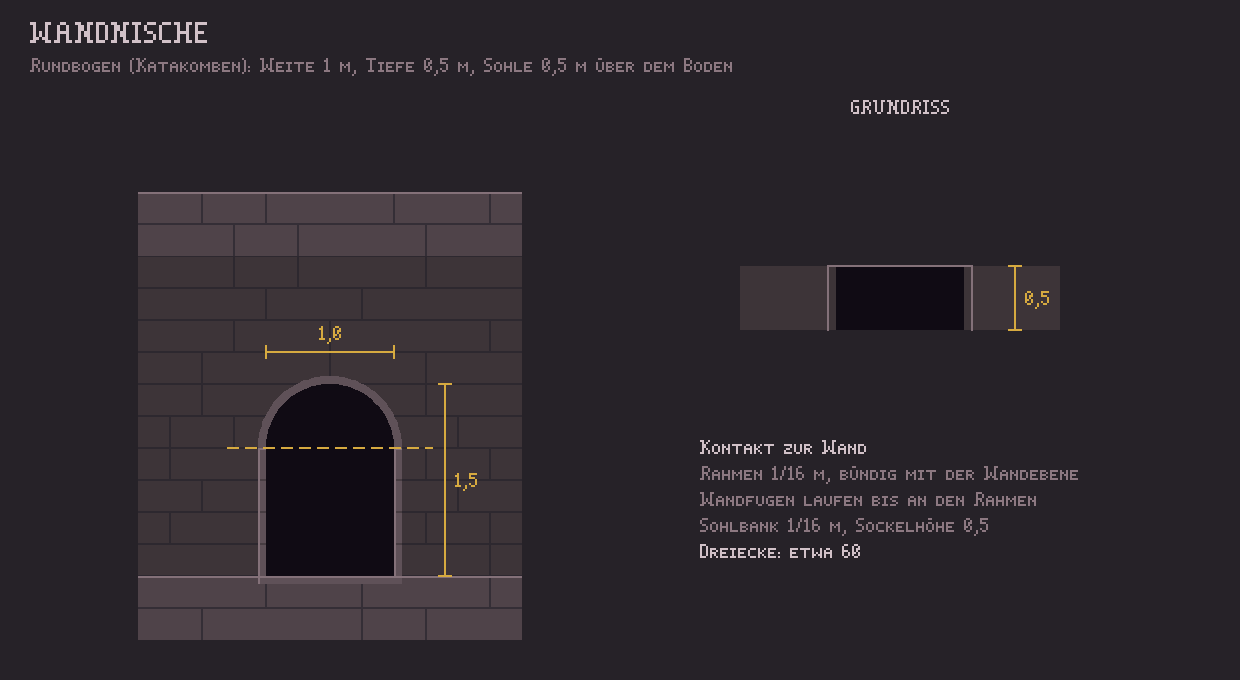
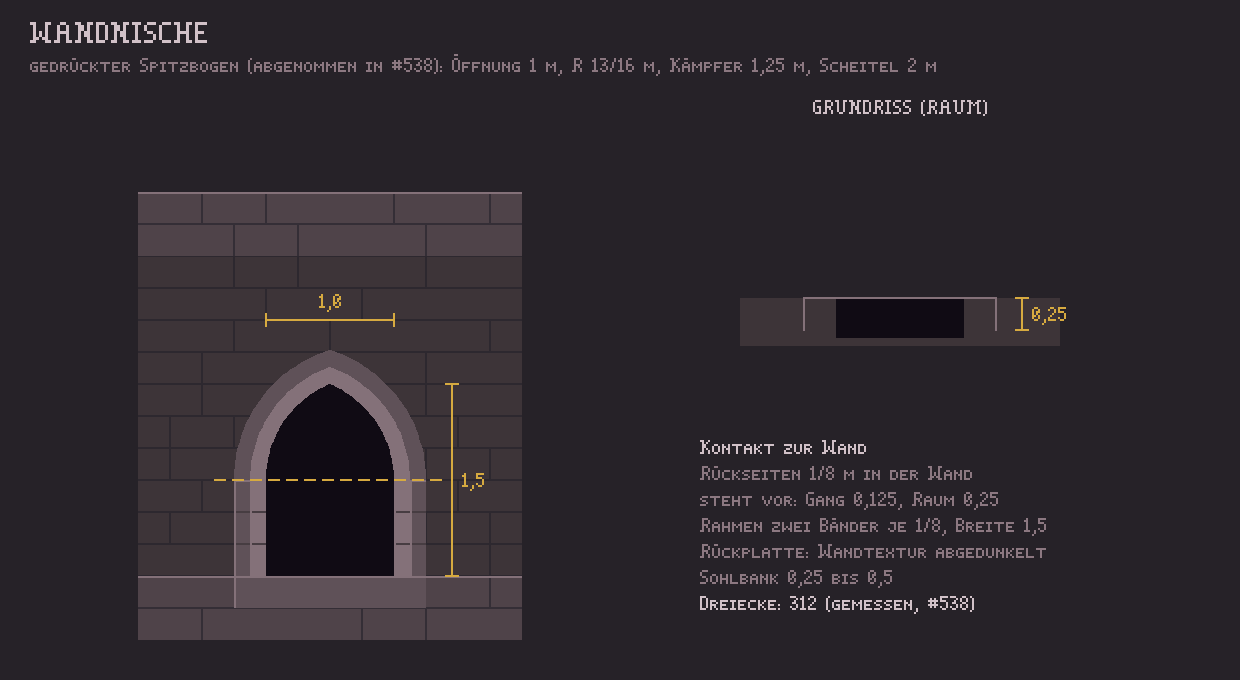
docs: Formenlehre, Musterraum, CHANGELOG und HERKUNFT zur Wandnische (#538)
Die Formenlehre beschreibt die Nische jetzt als gedrueckten Spitzbogen,
wie in #538 abgenommen (Masse, 312 Dreiecke gemessen, Kontakt zur Wand);
die Skizze nische.png ist neu gezeichnet.

diff --git a/tools/design/formenlehre_gotik.py b/tools/design/formenlehre_gotik.py
@@ -522,27 +522,30 @@ def deckenbogen():
 
 
 def nische():
-    c = panel("WANDNISCHE", "Rundbogen (Katakomben): Weite 1 m, Tiefe 0,5 m, Sohle 0,5 m über dem Boden")
+    c = panel("WANDNISCHE", "gedrückter Spitzbogen (abgenommen in #538): Öffnung 1 m, R 13/16 m, Kämpfer 1,25 m, Scheitel 2 m")
     t = T(330, 640)
     wall_zoned(c, t, -1.5, 1.5)
-    outer = full_arc(0.5, 0.5, 1.5)
-    c.poly([t.p((-0.5, 0.5))] + [t.p(p) for p in outer[1:-1]] + [t.p((0.5, 0.5))], OEFFNUNG)
-    o2, i2 = arch_ring(0.5625, 0.5625, 0.0625, 1.5)
-    fill_ring(c, t, o2, i2, BAU)
-    stone_block(c, t, -0.5625, -0.5, 0.5, 1.5)
-    stone_block(c, t, 0.5, 0.5625, 0.5, 1.5)
-    stone_block(c, t, -0.5625, 0.5625, 0.4375, 0.5)
-    dim_h(c, t, -0.5, 0.5, 2.25, "1,0")
-    dim_v(c, t, 0.9, 0.5, 2.0, "1,5", right=True)
-    c.dashed(t.x(-0.8), t.y(1.5), t.x(0.8), t.y(1.5), MASS, 2, 10, 8)
+    R, spring = 0.8125, 1.25
+    opening = full_arc(0.5, R, spring)
+    c.poly([t.p((-0.5, 0.5))] + [t.p(p) for p in opening] + [t.p((0.5, 0.5))], OEFFNUNG)
+    for hw, fill in ((0.75, BAU), (0.625, BAU_HELL)):
+        o, i = arch_ring(hw, R + hw - 0.5, 0.125, spring)
+        fill_ring(c, t, o, i, fill)
+        stone_block(c, t, -hw, -hw + 0.125, 0.5, spring, fill=fill)
+        stone_block(c, t, hw - 0.125, hw, 0.5, spring, fill=fill)
+    stone_block(c, t, -0.75, 0.75, 0.25, 0.5)
+    dim_h(c, t, -0.5, 0.5, 2.5, "1,0")
+    dim_v(c, t, 0.95, 0.5, 2.0, "1,5", right=True)
+    c.dashed(t.x(-0.9), t.y(spring), t.x(0.9), t.y(spring), MASS, 2, 10, 8)
     tp = T(900, 330)
-    c.rect(tp.x(-1.25), tp.y(0.5), tp.x(1.25), tp.y(0), WAND)
-    c.rect(tp.x(-0.5), tp.y(0.5), tp.x(0.5), tp.y(0), OEFFNUNG)
-    c.path([tp.p((-0.5625, 0)), tp.p((-0.5625, 0.5)), tp.p((0.5625, 0.5)), tp.p((0.5625, 0))], BAU_HELL, 2)
-    c.text(tp.x(0), 100, "GRUNDRISS", TITEL, 2, "m")
-    dim_v(c, tp, 0.9, 0, 0.5, "0,5", right=True)
-    notes(c, 700, 440, ["#Kontakt zur Wand", "Rahmen 1/16 m, bündig mit der Wandebene", "Wandfugen laufen bis an den Rahmen",
-                        "Sohlbank 1/16 m, Sockelhöhe 0,5", "#Dreiecke: etwa 60"], 26)
+    c.rect(tp.x(-1.25), tp.y(0.25), tp.x(1.25), tp.y(-0.125), WAND)
+    c.rect(tp.x(-0.5), tp.y(0.25), tp.x(0.5), tp.y(-0.0625), OEFFNUNG)
+    c.path([tp.p((-0.75, 0)), tp.p((-0.75, 0.25)), tp.p((0.75, 0.25)), tp.p((0.75, 0))], BAU_HELL, 2)
+    c.text(tp.x(0), 100, "GRUNDRISS (RAUM)", TITEL, 2, "m")
+    dim_v(c, tp, 0.95, 0, 0.25, "0,25", right=True)
+    notes(c, 700, 440, ["#Kontakt zur Wand", "Rückseiten 1/8 m in der Wand", "steht vor: Gang 0,125, Raum 0,25",
+                        "Rahmen zwei Bänder je 1/8, Breite 1,5", "Rückplatte: Wandtextur abgedunkelt",
+                        "Sohlbank 0,25 bis 0,5", "#Dreiecke: 312 (gemessen, #538)"], 26)
     return c
 
 

diff --git a/docs/musterraum.md b/docs/musterraum.md
@@ -30,7 +30,8 @@ Der Rundgang ist eine Schleife aus **drei Abschnitten**, einer je Wandvariante *
 - **Einmal**, verteilt auf die drei Raum-Teile, mit mindestens 6 m Abstand: die vier Kisten (offen zu öffnen), die Wendeltreppe (steht, ist aber kein Ausgang), Ghul, Fledermaus und Gorm, das Armbrust-Skelett in Ruhe und beim Ankündigen (nur als Figur, ohne Körper und ohne Schuss; Issue #497), die Waffen und vier Gegenstände (je einer jeder Stufe) in ihrer Stufenfarbe, Silber, Blutphiole und Weihmunition.
 - **Wandpfeiler** (Issue #536) stehen vor der Nordwand jedes Teils, in dessen Wandvariante und Höhe: im Gang ein flacher Pfeiler (3,5 m) zwischen je zwei Türen, im Raum ein tieferer (6 m) alle 8 m. Sie stehen in der Mitte einer Zellenwand, so dass ihre Fugen mit der Wand weiterlaufen. Reiner Schmuck: keine Kollision, kein Einfluss auf Schritte und Schüsse. Die Zuordnung Wandvariante + Deckenhöhe → Modell steht in `WallPillarLook`; in echten Räumen stehen noch keine (Issue #284).
 - **Deckenbögen** (Issue #537): Jeder Abschnitt hat südlich des Gangteils einen Stichgang, eine Zelle (2 m) breit und 3,5 m hoch, der im Westen blind endet und in die Südwest-Ecke des Raumteils mündet. Darin spannen drei Gurtbögen im Abstand von 4 m quer über den Gang, jeder auf zwei tragenden Wandpfeilern, in der Wandvariante des Abschnitts. Reiner Schmuck wie die Pfeiler: Ein Test läuft Tick für Tick durch den Stichgang (Mitte und dicht an beiden Wänden) und zeigt, dass der Weg mit und ohne Bögen gleich ist. Wo ein Bogen stehen darf (nur quer über einen 2 m breiten Gang unter 3,5 m Decke) und welches Modell er trägt, steht in `CeilingArchLook`; in echten Gängen stehen noch keine (Issue #284).
-- Über jedem Stück steht sein englischer Name, an jedem Teil „Wall A - corridor 3.5 m“ usw., über dem ersten Pfeiler eines Teils „Pillar 3.5 m“ bzw. „Pillar 6 m“, an der Mündung jedes Stichgangs „Ceiling arch“. Schilder hinter Wänden, weiter als 16 m entfernt oder nicht ganz im Bild werden nicht gezeichnet.
+- **Wandnischen** (Issue #538) sitzen an der Südwand jedes Teils, in dessen Wandvariante: im Gang die flache (3,5 m, steht 1/8 m vor), im Raum die tiefere (6 m, 1/4 m). Sie sitzen in denselben Spalten wie die Raumpfeiler, alle 4 m und mit einer Zelle glatter Wand an beiden Enden, also gegenüber von Türen und Pfeilern der Nordwand. Wo eine Nische sitzen darf, prüft `WallNicheLook.Place`: offene Zelle mit einer lichten Höhe (Decke minus Boden), für die es eine Größe gibt; Wand dahinter; beide Nachbarn entlang der Wand offen, auf gleicher Bodenhöhe und mit Wand dahinter (der Rahmen reicht 1/4 m in sie hinein). Reiner Schmuck: Ein Test läuft Tick für Tick auf jede Nische zu und kommt bis an die Wand. In echten Räumen sitzen noch keine (Issue #284).
+- Über jedem Stück steht sein englischer Name, an jedem Teil „Wall A - corridor 3.5 m“ usw., über dem ersten Pfeiler eines Teils „Pillar 3.5 m“ bzw. „Pillar 6 m“, vor der ersten Nische eines Teils „Niche 3.5 m“ bzw. „Niche 6 m“, an der Mündung jedes Stichgangs „Ceiling arch“. Schilder hinter Wänden, weiter als 16 m entfernt oder nicht ganz im Bild werden nicht gezeichnet.
 
 **Gegner sind Ausstellungsstücke:** Sie bewegen sich nicht, greifen nicht an und nehmen keinen Schaden. Es gibt keine Arenen, keine Siegel, keinen Bosskampf und keinen Ebenenwechsel. Silber, Schlüssel, Phiole und Munition nimmst du wie im Spiel beim Darüberlaufen auf – dann fehlen sie bis zum nächsten Start.
 
@@ -60,7 +61,7 @@ Je Teil gibt es eine Foto-Szene mit genau diesem Aufbau (siehe [foto-skript.md](
 dotnet run --project src/SilverAndAsh.Game -- --photo showroom-a-corridor --out fotos
 ```
 
-Szenen: `showroom-a-corridor`, `showroom-a-room`, `showroom-b-corridor`, `showroom-b-room`, `showroom-c-corridor`, `showroom-c-room`. Der Blick geht vom Westende des südlichen Laufwegs schräg auf die Nordwand; weit entfernte Stücke liegen – wie im Spiel – im Dunkeln. Das Armbrust-Skelett hat eigene Szenen von vorn: `crossbow-skeleton-rest-4m`, `crossbow-skeleton-announce-4m` und `crossbow-skeleton-announce-2m`. Die Wandpfeiler zeigen `wall-pillar-a-corridor` bis `wall-pillar-c-room` (je Wandvariante und Höhe), die Deckenbögen `ceiling-arch-a` bis `ceiling-arch-c` (je Wandvariante, von der Mündung auf den nächsten Bogen) und `ceiling-arch-sequence` (die Folge der drei Bögen in Variante A). Für ein bestimmtes Stück aus der Nähe baut `ShowroomLayout.NewWorldAt(x, z, blickziel)` eine Welt mit dem Spieler an einer Zelle.
+Szenen: `showroom-a-corridor`, `showroom-a-room`, `showroom-b-corridor`, `showroom-b-room`, `showroom-c-corridor`, `showroom-c-room`. Der Blick geht vom Westende des südlichen Laufwegs schräg auf die Nordwand; weit entfernte Stücke liegen – wie im Spiel – im Dunkeln. Das Armbrust-Skelett hat eigene Szenen von vorn: `crossbow-skeleton-rest-4m`, `crossbow-skeleton-announce-4m` und `crossbow-skeleton-announce-2m`. Die Wandpfeiler zeigen `wall-pillar-a-corridor` bis `wall-pillar-c-room` (je Wandvariante und Höhe), die Deckenbögen `ceiling-arch-a` bis `ceiling-arch-c` (je Wandvariante, von der Mündung auf den nächsten Bogen) und `ceiling-arch-sequence` (die Folge der drei Bögen in Variante A), die Wandnischen `wall-niche-a-corridor` bis `wall-niche-c-room` (je Wandvariante und Größe, aus 3 m vor der zweiten Nische des Teils). Für ein bestimmtes Stück aus der Nähe baut `ShowroomLayout.NewWorldAt(x, z, blickziel)` eine Welt mit dem Spieler an einer Zelle.
 
 ## Wie es funktioniert
 

diff --git a/assets/HERKUNFT.md b/assets/HERKUNFT.md
@@ -16,6 +16,7 @@ Alles unter `assets/` ist per Skript erzeugt, nichts heruntergeladen (`CLAUDE.md
 | `models/stairs_spiral_a.glb`, `models/stairs_spiral_a.png`, `models/stairs_spiral_b.glb`, `models/stairs_spiral_b.png`, `models/stairs_spiral_c.glb`, `models/stairs_spiral_c.png` | `tools/models/stairs.py` (mit `tools/models/psx.py`; liest `textures/catacomb_wall*.png`, `textures/catacomb_floor*.png` und `palette/hauptpalette.json`) | 2026-11-17 |
 | `models/wall_pillar_corridor_a.glb`, `models/wall_pillar_corridor_a.png`, `models/wall_pillar_corridor_b.glb`, `models/wall_pillar_corridor_b.png`, `models/wall_pillar_corridor_c.glb`, `models/wall_pillar_corridor_c.png`, `models/wall_pillar_room_a.glb`, `models/wall_pillar_room_a.png`, `models/wall_pillar_room_b.glb`, `models/wall_pillar_room_b.png`, `models/wall_pillar_room_c.glb`, `models/wall_pillar_room_c.png` | `tools/models/wall_pillar.py` (mit `tools/models/psx.py`; liest `textures/catacomb_wall*.png` und `palette/hauptpalette.json`; Übergabe aus `design/proben/grafik/wandpfeiler-536/wandpfeiler.py`, Fassungen Gang und Raum, Issue #536; neu erzeugt mit Hebung um 2 Stein-Stufen statt 5, damit die Fugen auf den umgerechneten Wänden sichtbar bleiben) | 2026-11-20 |
 | `models/ceiling_arch_a.glb`, `models/ceiling_arch_a.png`, `models/ceiling_arch_b.glb`, `models/ceiling_arch_b.png`, `models/ceiling_arch_c.glb`, `models/ceiling_arch_c.png` | `tools/models/ceiling_arch.py` (mit `tools/models/pillar_kit.py`, das Profil, Texturen und Welt-UV mit `tools/models/wall_pillar.py` teilt, und `tools/models/psx.py`; liest `textures/catacomb_wall*.png` und `palette/hauptpalette.json`; Übergabe aus dem Probestück `deckenbogen.py` auf dem Branch `feat/deckenbogen-probe-537` (Stand `774ce69`), Bogen mit tragenden Pfeilern „gang_traeger“, Issue #537; Prüfung `tools/models/check_closed.py`; zwei Läufe bitgleich) | 2026-11-21 |
+| `models/wall_niche_corridor_a.glb`, `models/wall_niche_corridor_a.png`, `models/wall_niche_corridor_b.glb`, `models/wall_niche_corridor_b.png`, `models/wall_niche_corridor_c.glb`, `models/wall_niche_corridor_c.png`, `models/wall_niche_room_a.glb`, `models/wall_niche_room_a.png`, `models/wall_niche_room_b.glb`, `models/wall_niche_room_b.png`, `models/wall_niche_room_c.glb`, `models/wall_niche_room_c.png` | `tools/models/wall_niche.py` (mit `tools/models/pillar_kit.py` und `tools/models/psx.py`; liest `textures/catacomb_wall*.png` und `palette/hauptpalette.json`; Übergabe aus dem Probestück `wandnische.py` auf dem Branch `feat/wandnische-probe-538` (Stand `07cac5c`), Form „spitz“ in den Größen Gang und Raum, Issue #538; Form, Maße und Hebung der Steine (5 Stufen) unverändert übernommen, Geometrie und Atlanten bitgleich mit den Modellen des Probestücks; Prüfung im Skript per `assert`: geschlossen, nur Farben der Reihe Stein, Vorsprung; zwei Läufe bitgleich) | 2026-11-21 |
 | `models/well_of_sirius_bereit.glb`, `models/well_of_sirius_verbraucht.glb`, `models/well_of_sirius.png` | `tools/models/well_of_sirius.py` (mit `tools/models/psx.py`; liest `palette/hauptpalette.json`; Übergabe aus `design/proben/grafik/brunnen-438/brunnen3.py`, Issue #438; Prüfung `tools/models/check_closed.py`) | 2026-11-19 |
 | `models/crossbow_skeleton_rest.glb`, `models/crossbow_skeleton_rest.png`, `models/crossbow_skeleton_announce.glb`, `models/crossbow_skeleton_announce.png` | `tools/models/crossbow_skeleton.py` (mit `tools/models/psx.py`; liest `palette/hauptpalette.json`; Übergabe der abgenommenen Probe „F flach“ aus Issue #334, Runde 4, Issue #497; Prüfung `tools/models/check_closed.py`) | 2026-11-20 |
 | `models/crypt_warden_rest.glb`, `models/crypt_warden_rest.png`, `models/crypt_warden_announce.glb`, `models/crypt_warden_announce.png` | `tools/models/crypt_warden.py` (mit `tools/models/psx.py`; liest `palette/hauptpalette.json`; Übergabe der abgenommenen Probe „K1“ aus Issue #335, Runde 7, Issue #530; Prüfung `tools/models/check_closed.py`) | 2026-11-20 |
@@ -56,6 +57,7 @@ Modelle mit Blender 5.3 ohne Oberfläche; das Skript schreibt nach `assets/model
 "D:\Program Files\Blender Foundation\Blender 5.3\blender.exe" --background --python tools/models/crypt_warden.py
 "D:\Program Files\Blender Foundation\Blender 5.3\blender.exe" --background --python tools/models/wall_pillar.py
 "D:\Program Files\Blender Foundation\Blender 5.3\blender.exe" --background --python tools/models/ceiling_arch.py
+"D:\Program Files\Blender Foundation\Blender 5.3\blender.exe" --background --python tools/models/wall_niche.py
 ```
 
 Level-Texturen ebenso; das Skript schreibt nach `assets/textures/`:

diff --git a/CHANGELOG.md b/CHANGELOG.md
@@ -7,6 +7,7 @@ Neue Einträge kommen zuerst unter **Unveröffentlicht**. Beim Release wird dara
 ## [Unveröffentlicht]
 
 ### Hinzugefügt
+- **Wandnische im Musterraum:** An der Südwand jedes Abschnitts sitzen flache Wandnischen mit gedrücktem Spitzbogen, in jeder Wandvariante A, B und C: im Gang (3,5 m) eine flache, die 1/8 m vorsteht, im Raum (6 m) eine tiefere mit 1/4 m. Gewände und Sohlbank tragen den Stein ihrer Wand, etwas heller; in der Öffnung liegt eine dunkle Platte, deren Steine mit denen der Wand weiterlaufen. Eine Nische sitzt nur mitten an einer glatten Wand, nie an einer Ecke, Öffnung oder Stufe. Die Nischen sind reiner Schmuck: Man läuft bis an die Wand dahinter. In echten Räumen sitzen sie noch nicht. Zum Ansehen: `--showroom` (Schilder „Niche 3.5 m“ und „Niche 6 m“) oder `--photo wall-niche-a-room` (#538)
 - **Deckenbogen im Musterraum:** Jeder Abschnitt hat einen kurzen Stichgang (2 m breit, 3,5 m hoch), der in die Südwest-Ecke des Raums mündet. Darin stehen drei steinerne Gurtbögen im Abstand von 4 m, quer über den Gang, jeder auf zwei flachen Wandpfeilern, in der Wandvariante A, B oder C des Abschnitts. Der Bogen trägt den Stein seiner Wand, eine Stufe heller; Fuß und Schlussstein stecken ein Stück in Wand und Decke. Die Bögen sind reiner Schmuck: Man läuft unter ihnen genauso wie ohne sie, auch dicht an der Wand. In echten Gängen stehen sie noch nicht. Zum Ansehen: `--showroom` (Schild „Ceiling arch“) oder `--photo ceiling-arch-sequence` (#537)
 - **Wandpfeiler im Musterraum:** Vor der Nordwand jedes Abschnitts stehen steinerne Wandpfeiler vom Boden bis zur Decke, in jeder Wandvariante A, B und C: im Gang (3,5 m) ein flacher Pfeiler zwischen je zwei Türen, im Raum (6 m) ein tieferer alle 8 m. Jeder Pfeiler trägt den Stein seiner Wand, eine Stufe heller, und seine Fugen laufen mit denen der Wand weiter. Die Pfeiler sind reiner Schmuck: Sie halten niemanden auf und fangen keinen Schuss ab. In echten Räumen stehen sie noch nicht. Zum Ansehen: `--showroom` oder `--photo wall-pillar-b-room` (#536)
 - **Gruftwächter im Musterraum:** Das abgenommene Modell des Gruftwächters (Fassung „K1“) steht im Musterraum, einmal in Ruhe mit aufgestütztem Stab und mattem Auge, einmal beim Ankündigen des Schlags mit verwundenem Oberkörper, erhobenem Stab und blutrotem Auge. Rot gibt es nur in diesem einen Auge und nur beim Ankündigen. Es ist bisher nur eine Figur: Sie bewegt sich nicht, schlägt nicht und hält niemanden auf; der Gegner selbst kommt später. Zum Ansehen: `--photo crypt-warden-announce-2m` (#530)
